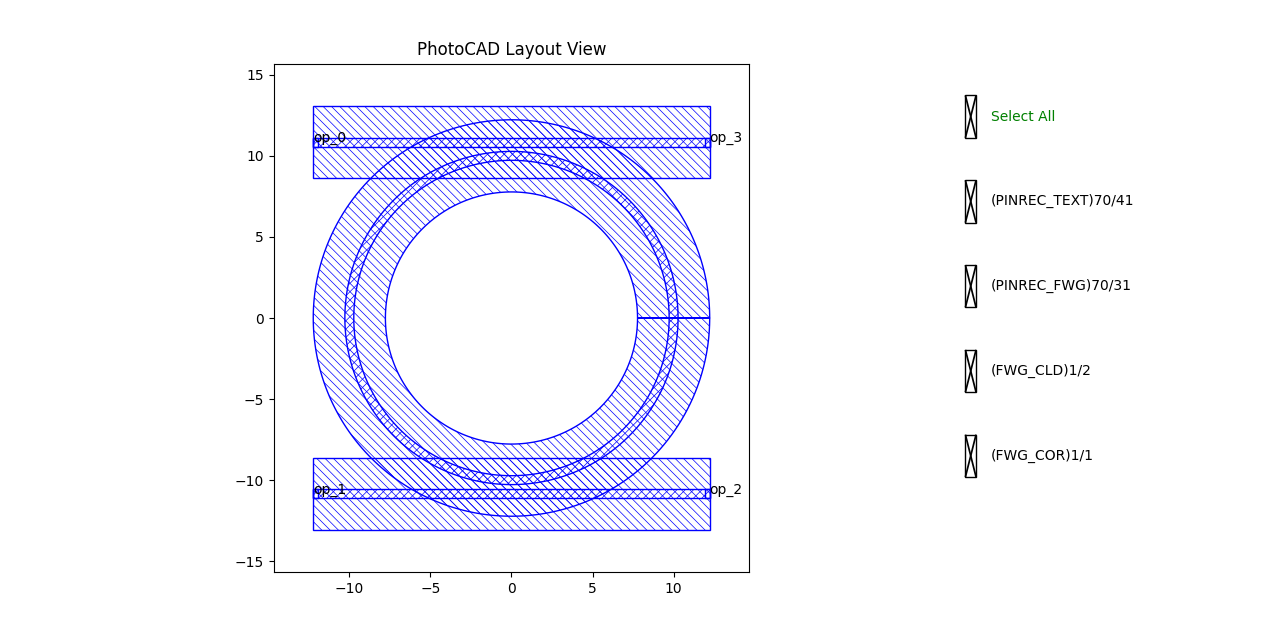
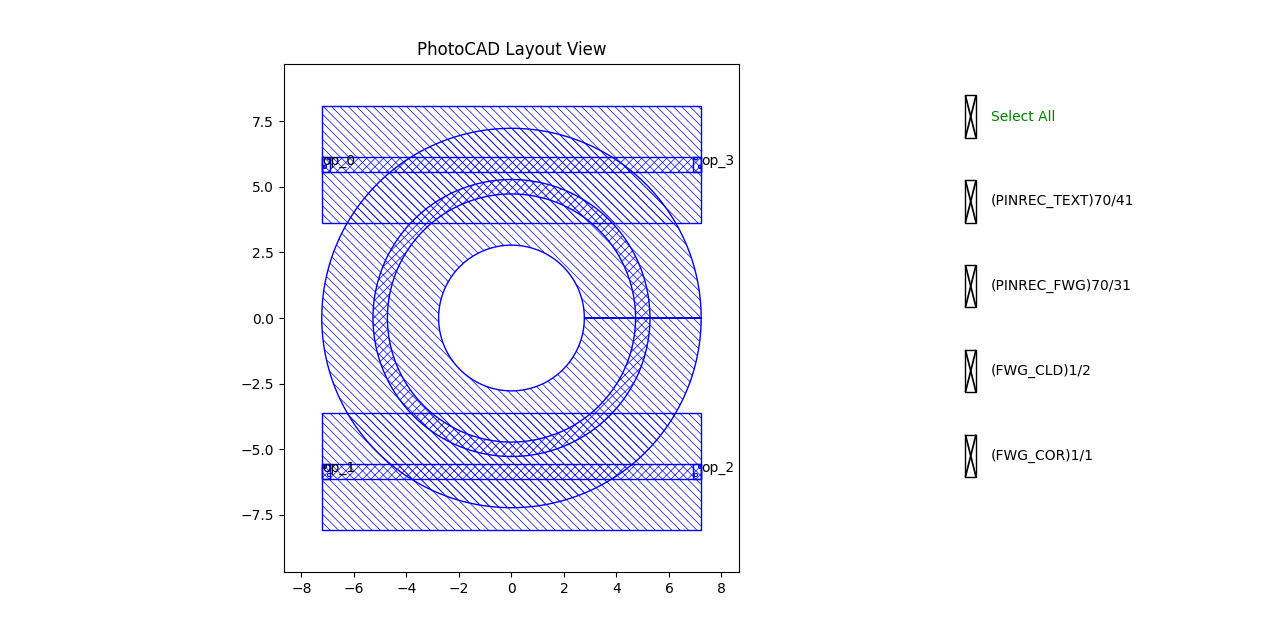
fix comp_ring and add comp_mzm

diff --git a/docs/en/03_components/comp_mzm.rst b/docs/en/03_components/comp_mzm.rst
@@ -1,0 +1,296 @@
+.. _com_mzm :
+
+Mzm
+=======================
+
+The Mach-Zehnder Modulator (MZM) consists of a Y-splitter, two phase-shifting arms, and a Y-combiner. It modulates optical intensity by electrically controlling the relative phase between the two arms and recombining them through interference. The full script can be found in ``gpdk`` > ``components`` > ``mzm`` > ``mzm.py``.
+
+Basic Usage
+------------------
+
+The simplest way to create an MZM is to instantiate the ``Mzm`` class with desired parameters and output the layout for visualization. 
+
+.. code-block:: python
+
+    from gpdk.technology import get_technology
+    import fnpcell.all as fp
+    from gpdk import all as pdk
+
+    TECH = get_technology()
+
+    # Create an MZM using default settings
+    mzm = pdk.Mzm(wg_length=600, waveguide_type=TECH.WG.FWG.C.WIRE)
+
+    # Option 1: Plot the layout directly
+    fp.plot(mzm)
+
+    # Option 2: Export to GDS file for external viewers
+    # library = fp.Library()
+    # library += mzm
+    # fp.export_gds(library, file=TECH.OUTPUT.local_output_file(__file__))
+
+.. image:: image/mzm_1.png
+
+This produces a complete MZM structure including a Y-splitter, two parallel PN phase shifters in the arms, and a Y-combiner, routed together automatically.
+
+Full Script
+------------------
+
+Import libraries:
+
+.. code-block:: python
+
+    from gpdk.components.combiner.y_combiner import YCombiner
+    from gpdk.components.splitter.y_splitter import YSplitter
+    from gpdk.technology.wg import WG
+    from gpdk.technology.wg.types import CoreCladdingWaveguideType
+    from typing_extensions import Tuple
+
+    import fnpcell.all as fp
+    from gpdk.components.pn_phase_shifter.pn_phase_shifter import PnPhaseShifter
+    from gpdk.technology import get_technology
+
+The complete definition of the ``Mzm`` class:
+
+.. code-block:: python
+
+    class Mzm(fp.PCell[fp.IOwnedPort], band="C"):
+
+        p_width: float = fp.PositiveFloatParam(default=1)
+        n_width: float = fp.PositiveFloatParam(default=1)
+        np_offset: float = fp.FloatParam(default=0)
+        wg_length: float = fp.PositiveFloatParam(default=25)
+        phase_shifter_spacing: float = fp.PositiveFloatParam(default=100)
+        splitter_wg_length: float = fp.PositiveFloatParam(default=100)
+        waveguide_type: CoreCladdingWaveguideType = fp.WaveguideTypeParam(type=WG.FWG.C, default=fp.USE_DEFAULT_FACTORY)
+        pn_phase_shifter_0: fp.IDevice = fp.DeviceParam(type=PnPhaseShifter, port_count=2, pin_count=2, default=fp.USE_DEFAULT_FACTORY)
+        pn_phase_shifter_1: fp.IDevice = fp.DeviceParam(type=PnPhaseShifter, port_count=2, pin_count=2, default=fp.USE_DEFAULT_FACTORY)
+        y_splitter: fp.IDevice = fp.DeviceParam(type=YSplitter, port_count=3, default=fp.USE_DEFAULT_FACTORY)
+        y_combiner: fp.IDevice = fp.DeviceParam(type=YCombiner, port_count=3, default=fp.USE_DEFAULT_FACTORY)
+        port_names: fp.IPortOptions = fp.PortOptionsParam(count=2, default=["op_0", "op_1"])
+
+        def _default_waveguide_type(self):
+            return get_technology().WG.FWG.C.WIRE
+
+        def _default_pn_phase_shifter_0(self):
+            return PnPhaseShifter(
+                name="p1", p_width=self.p_width, n_width=self.n_width, np_offset=self.np_offset, wg_length=self.wg_length, waveguide_type=self.waveguide_type
+            )
+
+        def _default_pn_phase_shifter_1(self):
+            return PnPhaseShifter(
+                name="p2",
+                p_width=self.p_width,
+                n_width=self.n_width,
+                np_offset=self.np_offset,
+                wg_length=self.wg_length,
+                waveguide_type=self.waveguide_type,
+                transform=fp.translate(0, -self.phase_shifter_spacing),
+            )
+
+        def _default_y_splitter(self):
+            return YSplitter(
+                name="s", bend_radius=10, waveguide_type=self.waveguide_type, transform=fp.translate(-self.splitter_wg_length, -self.phase_shifter_spacing / 2)
+            )
+
+        def _default_y_combiner(self):
+            return YCombiner(
+                name="d",
+                bend_radius=10,
+                waveguide_type=self.waveguide_type,
+                transform=fp.translate(self.wg_length + self.splitter_wg_length, -self.phase_shifter_spacing / 2),
+            )
+
+        def build(self) -> Tuple[fp.InstanceSet, fp.ElementSet, fp.PortSet]:
+            insts, elems, ports = super().build()
+
+            waveguide_type = self.waveguide_type
+            pn_phase_shifter_0 = self.pn_phase_shifter_0
+            pn_phase_shifter_1 = self.pn_phase_shifter_1
+            ysplitter = self.y_splitter
+            ycombiner = self.y_combiner
+            port_names = self.port_names
+
+            phase_shifter_top = pn_phase_shifter_0
+            phase_shifter_bottom = pn_phase_shifter_1
+            splitter = ysplitter
+            ports += splitter["op_0"].with_name(port_names[0])
+            ycombiner = ycombiner
+            ports += ycombiner["op_2"].with_name(port_names[1])
+
+            insts += fp.Linked(
+                waveguide_linker=fp.partial(
+                    fp.WaveguideBetween,
+                    straight_type=waveguide_type,
+                ),
+                links=[
+                    splitter["op_2"] >> phase_shifter_top["op_0"],
+                    splitter["op_1"] >> phase_shifter_bottom["op_0"],
+                    phase_shifter_top["op_1"] >> ycombiner["op_0"],
+                    phase_shifter_bottom["op_1"] >> ycombiner["op_1"],
+                ],
+                ports=[],
+            )
+            return insts, elems, ports
+
+Section Script Description
+-------------------------------
+
+**Parameters:**
+
+.. list-table::
+   :widths: 20 20 35
+   :header-rows: 1
+
+   * - Parameter
+     - Default
+     - Description
+   * - ``p_width``
+     - ``1``
+     - The width of the p-doped region in the PN phase shifter.
+   * - ``n_width``
+     - ``1``
+     - The width of the n-doped region in the PN phase shifter.
+   * - ``np_offset``
+     - ``0``
+     - The offset of the PN junction relative to the waveguide center.
+   * - ``wg_length``
+     - ``25``
+     - The length of the straight active waveguide region in the phase shifters.
+   * - ``phase_shifter_spacing``
+     - ``100``
+     - The vertical distance (pitch) separating the top and bottom phase shifter arms.
+   * - ``splitter_wg_length``
+     - ``100``
+     - The physical horizontal offset distance from the phase shifters to place the splitters/combiners.
+   * - ``waveguide_type``
+     - ``FWG.C.WIRE``
+     - The fundamental waveguide definition used for the routing.
+   * - ``pn_phase_shifter_0``
+     - ``PnPhaseShifter(...)``
+     - The upper phase shifter component instance. Generates a default if not provided.
+   * - ``pn_phase_shifter_1``
+     - ``PnPhaseShifter(...)``
+     - The lower phase shifter component instance. Generates a default if not provided.
+   * - ``y_splitter``
+     - ``YSplitter(...)``
+     - The Y-splitter instance splitting input light into two arms.
+   * - ``y_combiner``
+     - ``YCombiner(...)``
+     - The Y-combiner instance recombining light from the two arms.
+
+**build Method:**
+
+1. Initialize the PCell and read parameters
+
+.. code-block:: python
+
+    def build(self) -> Tuple[fp.InstanceSet, fp.ElementSet, fp.PortSet]:
+        insts, elems, ports = super().build()
+
+        waveguide_type = self.waveguide_type
+        pn_phase_shifter_0 = self.pn_phase_shifter_0
+        pn_phase_shifter_1 = self.pn_phase_shifter_1
+        ysplitter = self.y_splitter
+        ycombiner = self.y_combiner
+        port_names = self.port_names
+
+The method first calls ``super().build()`` to initialize the PCell and then reads the parameters required to assemble the MZM. These parameters include the routing waveguide type, the two PN phase shifters, the Y-splitter, the Y-combiner, and the external port names.
+
+If the user does not explicitly provide ``pn_phase_shifter_0``, ``pn_phase_shifter_1``, ``y_splitter``, or ``y_combiner``, the corresponding default factories generate them from parameters such as ``p_width``, ``n_width``, ``np_offset``, ``wg_length``, ``phase_shifter_spacing``, ``splitter_wg_length``, and ``waveguide_type``.
+
+2. Expose the MZM input and output ports
+
+.. code-block:: python
+
+    phase_shifter_top = pn_phase_shifter_0
+    phase_shifter_bottom = pn_phase_shifter_1
+    splitter = ysplitter
+    ports += splitter["op_0"].with_name(port_names[0])
+    ports += ycombiner["op_2"].with_name(port_names[1])
+
+The MZM exposes two optical ports. The input port is taken from the input port of the Y-splitter, ``op_0``, and mapped to ``port_names[0]``. The output port is taken from the output port of the Y-combiner, ``op_2``, and mapped to ``port_names[1]``.
+
+3. Automatically route the two interferometer arms
+
+.. code-block:: python
+
+    insts += fp.Linked(
+        waveguide_linker=fp.partial(
+            fp.WaveguideBetween,
+            straight_type=waveguide_type,
+        ),
+        links=[
+            splitter["op_2"] >> phase_shifter_top["op_0"],
+            splitter["op_1"] >> phase_shifter_bottom["op_0"],
+            phase_shifter_top["op_1"] >> ycombiner["op_0"],
+            phase_shifter_bottom["op_1"] >> ycombiner["op_1"],
+        ],
+        ports=[],
+    )
+
+The routing is generated using ``fp.Linked``. The ``waveguide_linker`` uses ``fp.WaveguideBetween`` with ``straight_type=waveguide_type``, so the routing waveguides follow the selected ``waveguide_type``.
+
+The four links define the optical path of the MZM:
+
+.. list-table::
+   :widths: 45 55
+   :header-rows: 1
+
+   * - Link
+     - Description
+   * - ``splitter["op_2"] >> phase_shifter_top["op_0"]``
+     - Connects one output of the Y-splitter to the upper phase shifter.
+   * - ``splitter["op_1"] >> phase_shifter_bottom["op_0"]``
+     - Connects the other output of the Y-splitter to the lower phase shifter.
+   * - ``phase_shifter_top["op_1"] >> ycombiner["op_0"]``
+     - Connects the output of the upper phase shifter to one input of the Y-combiner.
+   * - ``phase_shifter_bottom["op_1"] >> ycombiner["op_1"]``
+     - Connects the output of the lower phase shifter to the other input of the Y-combiner.
+
+4. Return the assembled component
+
+.. code-block:: python
+
+    return insts, elems, ports
+
+Finally, the method returns the assembled instances, elements, and ports. In this component, most of the geometry is produced by the subcomponents and the automatic routing generated by ``fp.Linked``.
+
+Run and view the layout
+------------------------
+
+Modifying the parameters changes the generated structure. Observe the differences when varying arm lengths and spacings:
+
+**Variation A:** An MZM with wider arm spacing and a larger horizontal distance between the phase shifters and the splitter/combiner.
+
+.. code-block:: python
+
+    mzm_var_a = pdk.Mzm(
+        wg_length=600,
+        phase_shifter_spacing=150,
+        splitter_wg_length=150
+    )
+
+.. image:: image/mzm_variation_a.png
+
+**Variation B:** An MZM with shorter phase-shifter arms.
+
+.. code-block:: python
+
+    mzm_var_b = pdk.Mzm(
+        wg_length=300
+    )
+
+.. image:: image/mzm_variation_b.png
+
+**Variation C:** An MZM with wider PN doping regions in the phase shifters.
+
+.. code-block:: python
+
+    mzm_var_c = pdk.Mzm(
+        wg_length=600,
+        p_width=2,
+        n_width=2
+    )
+
+.. image:: image/mzm_variation_c.png

diff --git a/docs/en/03_components/comp_ring.rst b/docs/en/03_components/comp_ring.rst
@@ -273,28 +273,23 @@ Run and view the layout
 
 Modifying the parameters changes the generated structure. Observe the differences when varying radii, spacing, and waveguide types:
 
-**Variation A:** A larger ring resonator with a 10μm radius and wider coupling gaps.
+**Variation A:** A resonator with a wider coupling gaps.
 
 .. code-block:: python
 
     ring_var_a = pdk.RingResonator(
-        ring_radius=10, 
         top_spacing=0.3, 
         bottom_spacing=0.3, 
-        ring_type=TECH.WG.FWG.C.WIRE
     )
 
 .. image:: image/ring_resonator_variation_a.png
 
-**Variation B:** A hybrid configuration using expanded waveguides for the bus lines and standard wire for the ring.
+**Variation B:** A larger ring resonator with a 15 μm radius.
 
 .. code-block:: python
 
     ring_var_b = pdk.RingResonator(
-        ring_radius=15, 
-        ring_type=TECH.WG.FWG.C.WIRE,
-        top_type=TECH.WG.FWG.C.EXPANDED, 
-        bottom_type=TECH.WG.FWG.C.EXPANDED
+        ring_radius=15,
     )
 
 .. image:: image/ring_resonator_variation_b.png

diff --git a/docs/en/03_components/index.rst b/docs/en/03_components/index.rst
@@ -9,6 +9,8 @@ The three main components of gpdk are as follows:
 - :ref:`com_taper_linear`
 - :ref:`com_mmi`
 - :ref:`com_ring`
+- :ref:`com_mzm`
+
 
 
 
@@ -20,4 +22,5 @@ The three main components of gpdk are as follows:
    comp_taper_linear
    comp_mmi
    comp_ring
+   comp_mzm
 
